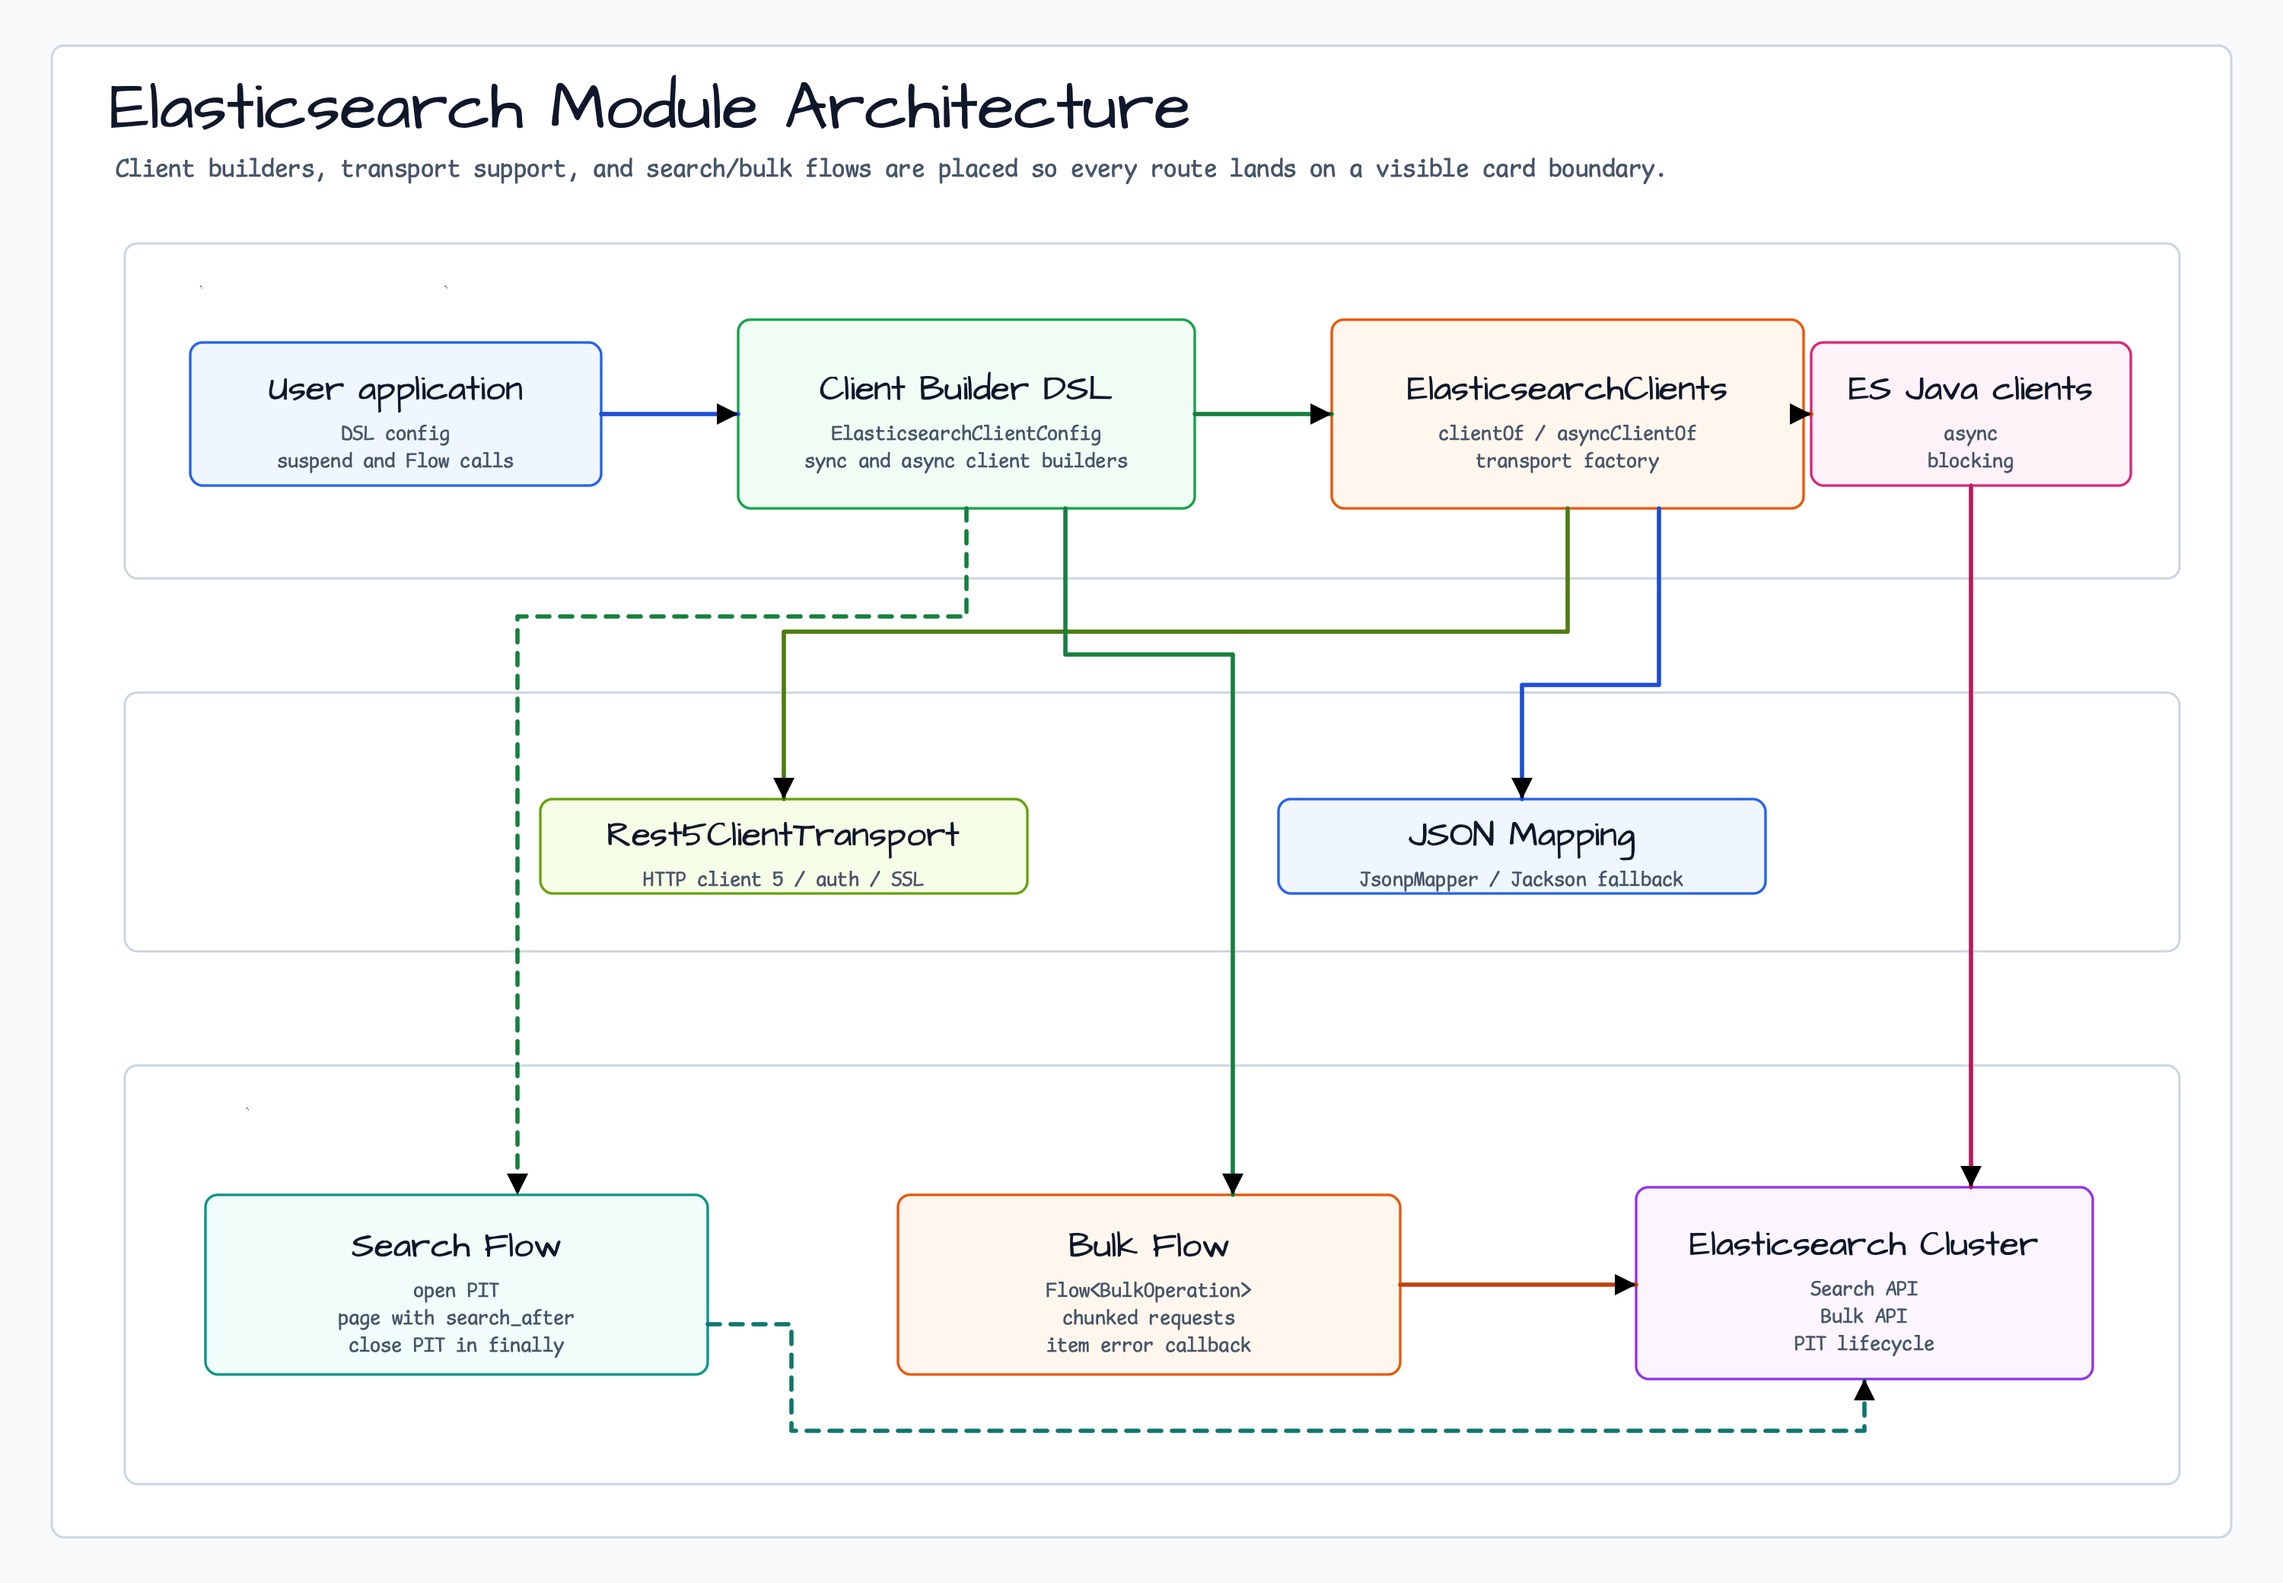
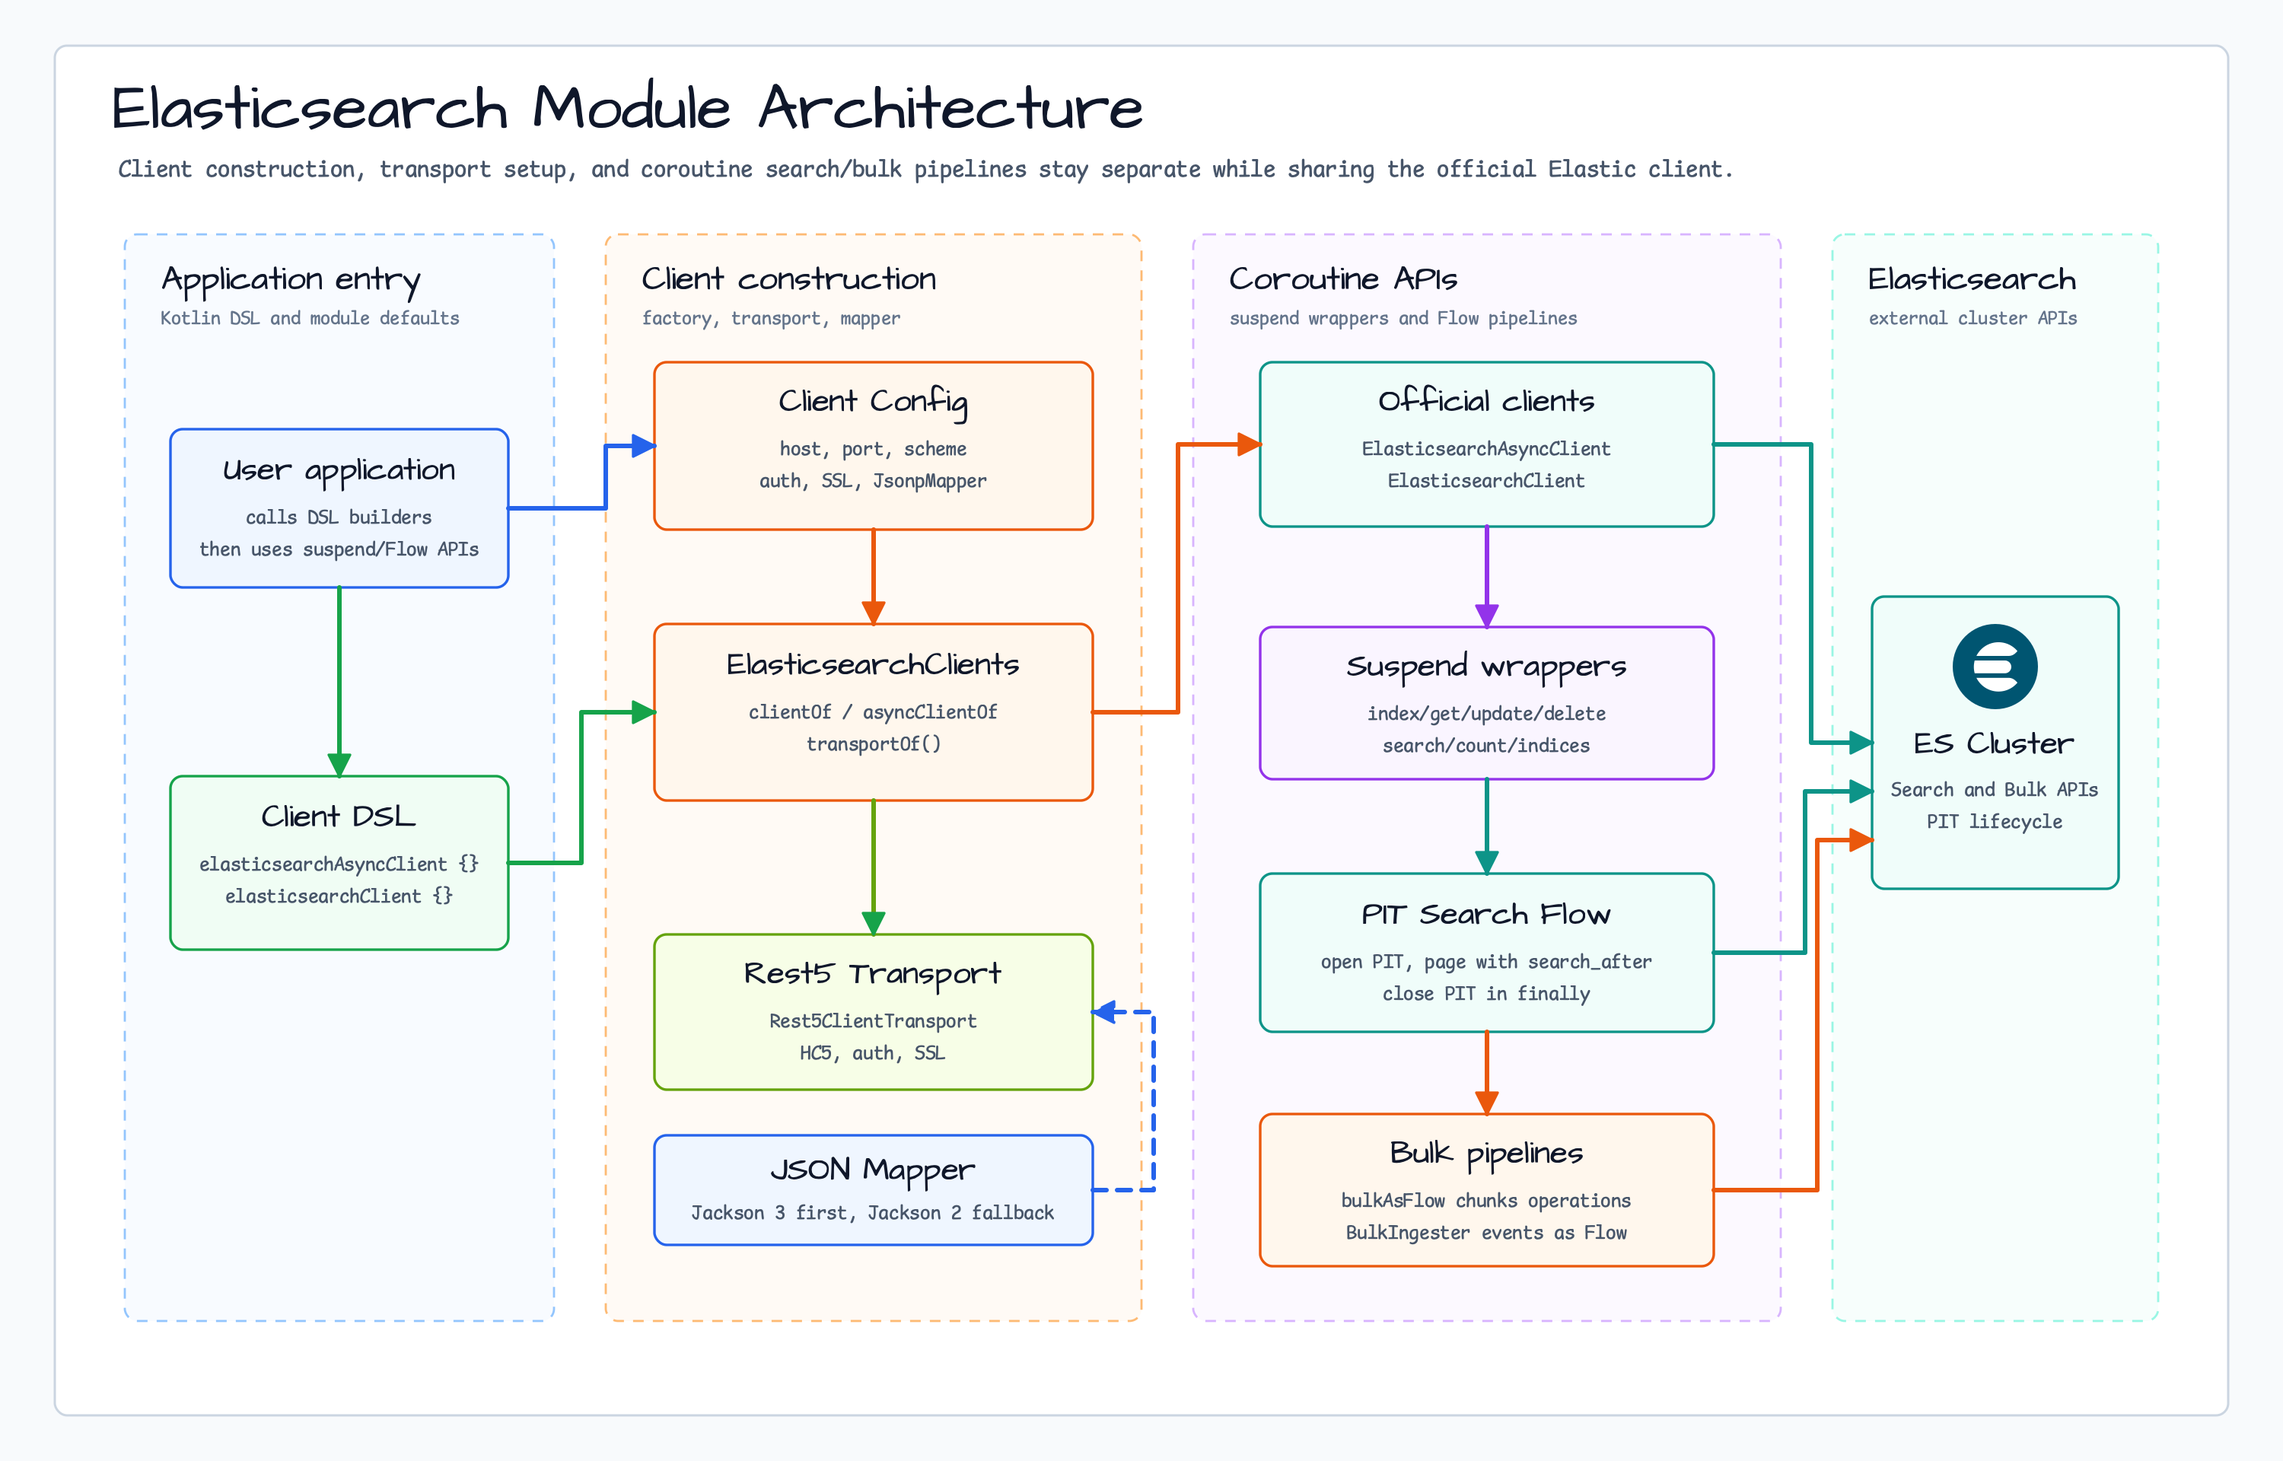
docs: clarify elasticsearch diagrams
Redraw the Elasticsearch README visuals from the current client factory and coroutine extension contracts so readers can distinguish construction, transport, and runtime Flow APIs.\n\nConstraint: Diagrams must use bluetape4k fonts with fireworks-tech-graph styling and no Graphviz output.\nRejected: Reusing the previous generic layer diagrams | they did not explain the current ES 9.x Rest5 transport and coroutine extension boundary clearly enough.\nConfidence: high\nScope-risk: narrow\nDirective: Keep future Elasticsearch diagrams source-backed; class/API structure should not be forced into rigid layers when dependency routing is clearer with free placement.\nTested: Regenerated both SVG/PNG assets, parsed SVG XML, rendered with CairoSVG, scanned forbidden diagram strings, verified README links, inspected individual PNGs and a contact sheet visually, and ran git diff --check.\nNot-tested: Gradle build was not run because this is documentation and diagram asset work only.

diff --git a/infra/elasticsearch/README.ko.md b/infra/elasticsearch/README.ko.md
@@ -2,22 +2,22 @@
 
 한국어 | [English](./README.md)
 
-Elasticsearch 클라이언트 라이브러리 (Kotlin + Coroutines 지원). Elasticsearch 9.x Java API 클라이언트의 관용적인 Kotlin DSL 빌더와 suspend 함수를 제공하며, Coroutines 기반 애플리케이션에서 효율적인 비동기/논-블로킹 작업을 가능하게 합니다.
+Kotlin + Coroutines 환경에서 쓰기 위한 Elasticsearch 클라이언트 라이브러리입니다. Elasticsearch 9.x Java API 클라이언트를 Kotlin DSL로 만들고, suspend 함수와 Flow 기반 파이프라인으로 비동기 작업을 다루기 쉽게 해줍니다.
 
 ## 특징
 
-- **Kotlin Coroutines 지원**: Elasticsearch 비동기 작업에 대한 완전한 suspend 함수 래퍼
-- **DSL 빌더 패턴**: ElasticsearchAsyncClient와 ElasticsearchClient 설정을 위한 유창한 문법
-- **고급 검색**: Point-in-Time(PIT) + search_after 페이징 및 Flow 기반 무한 스크롤
-- **일괄 작업**: Flow 백프레셔 지원과 함께 스트림 기반 일괄 인덱싱
-- **Virtual Thread 안전성**: 동기화 블록 없음, 필요시 ReentrantLock 사용
-- **Elasticsearch 9.x 호환**: Rest5ClientTransport(HC5 기반)를 기본값으로 사용
+- **Kotlin Coroutines 지원**: Elasticsearch 비동기 작업을 suspend 함수로 감쌉니다.
+- **DSL 빌더 패턴**: `ElasticsearchAsyncClient`와 `ElasticsearchClient`를 Kotlin DSL로 구성합니다.
+- **고급 검색**: Point-in-Time(PIT) + `search_after` 페이징을 Flow 기반 무한 스크롤로 제공합니다.
+- **일괄 작업**: Flow 백프레셔를 유지하면서 bulk indexing을 처리합니다.
+- **Virtual Thread 안전성**: `synchronized` 블록을 쓰지 않고, 필요한 경우 명시적 lock을 사용합니다.
+- **Elasticsearch 9.x 호환**: HC5 기반 `Rest5ClientTransport`를 기본 transport로 사용합니다.
 
 ## 아키텍처
 
-모듈은 클라이언트 구성, transport 설정, coroutine search/bulk 파이프라인을 분리합니다.
+이 모듈은 역할을 두 경계로 나눕니다. DSL/factory 코드는 ES 9.x의 `Rest5ClientTransport`로 공식 Elasticsearch Java 클라이언트를 만들고, coroutine 확장은 `ElasticsearchAsyncClient` 위에 suspend wrapper, PIT `search_after` streaming, bulk Flow 파이프라인을 얹습니다.
 
-![Elasticsearch Module Architecture diagram](../../docs/images/readme-diagrams/infra-elasticsearch-diagram-02.png)
+![Elasticsearch 모듈 아키텍처](../../docs/images/readme-diagrams/infra-elasticsearch-diagram-02.png)
 
 ## 설치
 

diff --git a/infra/elasticsearch/README.md b/infra/elasticsearch/README.md
@@ -15,9 +15,9 @@ Elasticsearch client library for Kotlin with Coroutines support. Provides idioma
 
 ## Architecture
 
-The module keeps client construction, transport setup, and coroutine search/bulk pipelines separated.
+The module has two clear boundaries. Client DSL/factory code builds the official Elasticsearch Java clients through the ES 9.x `Rest5ClientTransport`, while coroutine extensions add suspend wrappers, PIT `search_after` streaming, and bulk Flow pipelines on top of `ElasticsearchAsyncClient`.
 
-![Elasticsearch Module Architecture diagram](../../docs/images/readme-diagrams/infra-elasticsearch-diagram-02.png)
+![Elasticsearch module architecture](../../docs/images/readme-diagrams/infra-elasticsearch-diagram-02.png)
 
 ## Installation
 
@@ -57,7 +57,7 @@ This module depends on:
 
 ## Client API Structure
 
-![Elasticsearch Client API Structure](../../docs/images/readme-diagrams/infra-elasticsearch-diagram-01.png)
+![Elasticsearch client API structure](../../docs/images/readme-diagrams/infra-elasticsearch-diagram-01.png)
 
 ## Usage Examples
 
